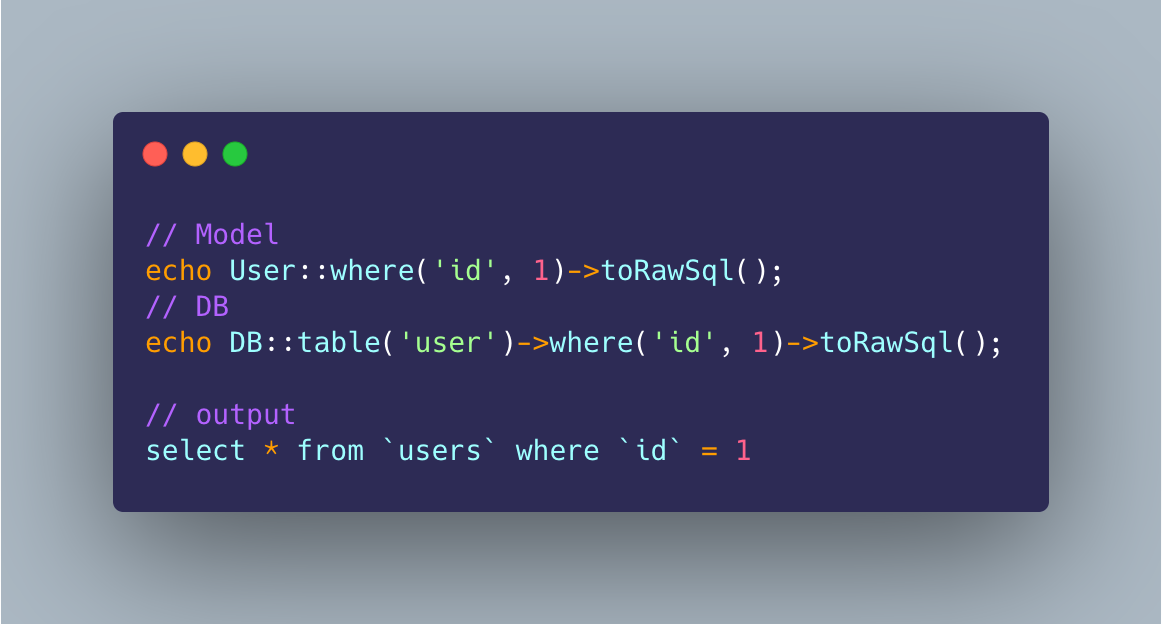
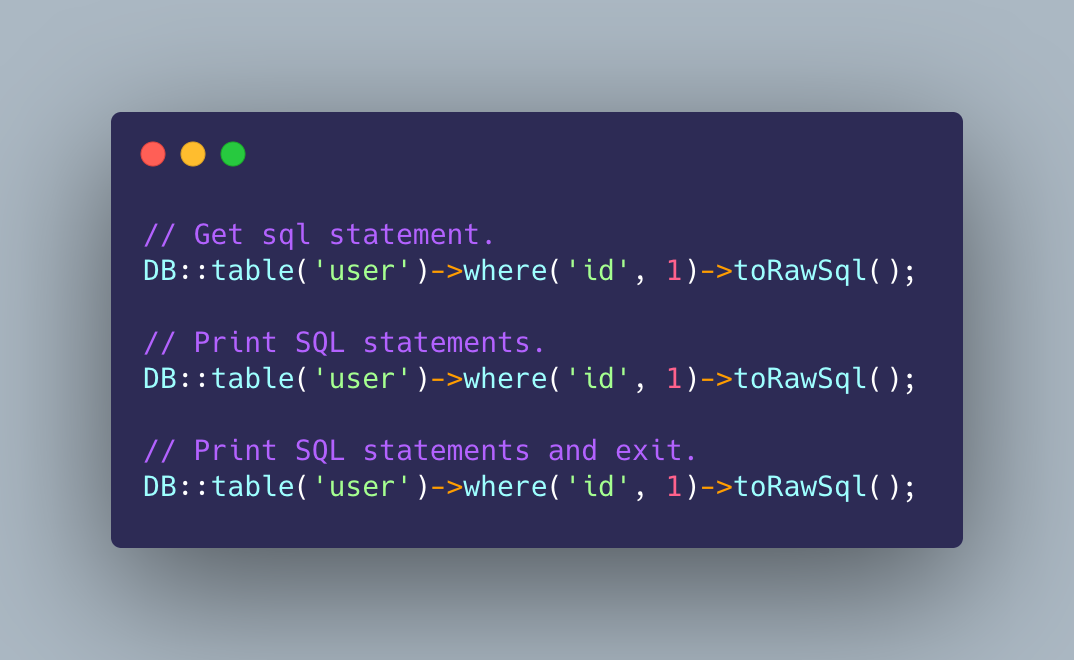
Update docs

Changed region(s): [[0.0922, 0.1522, 0.8911, 0.8526], [0.8911, 0.1827, 0.9218, 0.8221]]

diff --git a/README.md b/README.md
@@ -23,19 +23,18 @@ $ php artisan vendor:publish --provider="Guanguans\\LaravelRawSql\\ServiceProvid
 
 ## Usage
 
-### code
-
 ``` php
-// Model
-echo User::where('id', 1)->toRawSql();
-// DB
-echo DB::table('user')->where('id', 1)->toRawSql();
-```
+// Get sql statement.
+User::where('id', 1)->toRawSql();
+DB::table('user')->where('id', 1)->toRawSql();
 
-### output
+// Print SQL statements.
+User::where('id', 1)->dumpRawSql();
+DB::table('user')->where('id', 1)->toRawSql();
 
-``` sql
-select * from `users` where `id` = 1
+// Print SQL statements and exit.
+User::where('id', 1)->ddRawSql();
+DB::table('user')->where('id', 1)->toRawSql();
 ```
 
 ## Testing
